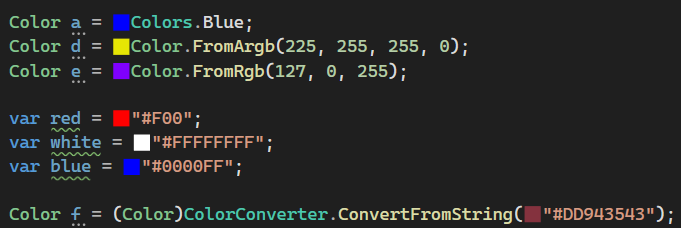
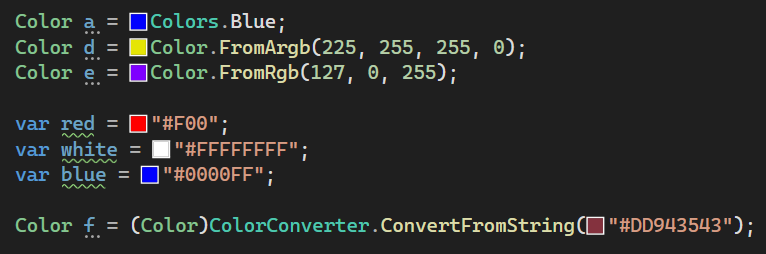
Add border & sizing based on text

Changed region(s): [[0.0, 0.0307, 0.7093, 0.3684], [0.0, 0.8289, 0.9868, 1.0], [0.0, 0.4298, 0.4009, 0.7982]]

diff --git a/src/ColorAdornment.cs b/src/ColorAdornment.cs
@@ -1,16 +1,27 @@
-using System.Windows.Controls;
+using System;
+using System.Windows.Controls;
+using Microsoft.VisualStudio.Shell.Interop;
+using Microsoft.VisualStudio.Shell;
+using Microsoft.VisualStudio;
+using System.Windows.Media;
+using System.Windows;
 
 namespace CsInlineColorViz
 {
-    internal sealed class ColorAdornment : Grid
+    internal sealed class ColorAdornment : Border
     {
+        private static readonly SolidColorBrush _borderColor = (SolidColorBrush)Application.Current.Resources[VsBrushes.CaptionTextKey];
         public ColorAdornment(ColorTag tag)
         {
             ClrTag = tag;
-            Height = 12;
-            Width = 12;
+
+            Padding = new Thickness(0);
+            BorderThickness = new Thickness(1);
+            BorderBrush = _borderColor;
+            Height = GetFontSize() + 2; ;
+            Width = Height;
             VerticalAlignment = System.Windows.VerticalAlignment.Center;
-            Margin = new System.Windows.Thickness(1, 1, 1, 3);
+            Margin = new System.Windows.Thickness(0, 0, 2, 3);
             SetBackground();
         }
 
@@ -25,6 +36,29 @@ namespace CsInlineColorViz
         private void SetBackground()
         {
             this.Background = new System.Windows.Media.SolidColorBrush(ClrTag.Clr);
+        }
+
+
+        private static int GetFontSize()
+        {
+            ThreadHelper.ThrowIfNotOnUIThread();
+
+            try
+            {
+                IVsFontAndColorStorage storage = (IVsFontAndColorStorage)Package.GetGlobalService(typeof(IVsFontAndColorStorage));
+                Guid guid = new("A27B4E24-A735-4d1d-B8E7-9716E1E3D8E0");
+                if (storage != null && storage.OpenCategory(ref guid, (uint)(__FCSTORAGEFLAGS.FCSF_READONLY | __FCSTORAGEFLAGS.FCSF_LOADDEFAULTS)) == VSConstants.S_OK)
+                {
+                    LOGFONTW[] Fnt = new LOGFONTW[] { new LOGFONTW() };
+                    FontInfo[] Info = new FontInfo[] { new FontInfo() };
+                    storage.GetFont(Fnt, Info);
+                    return Info[0].wPointSize;
+                }
+
+            }
+            catch { }
+
+            return 12;
         }
     }
 }
